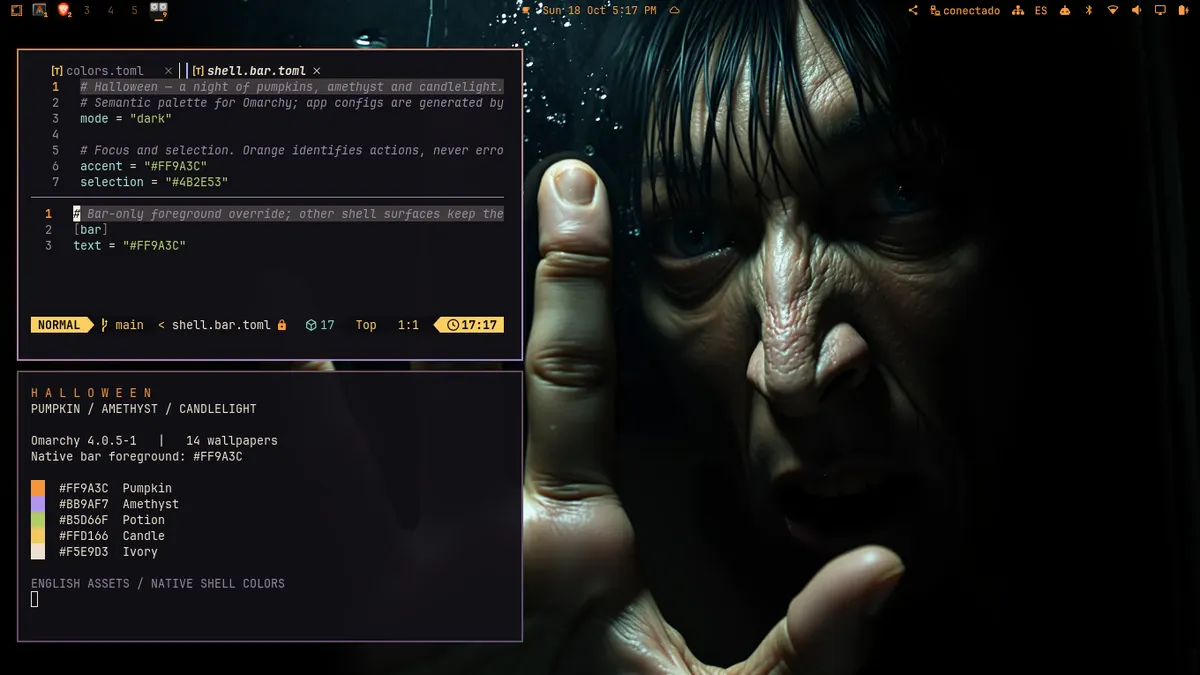
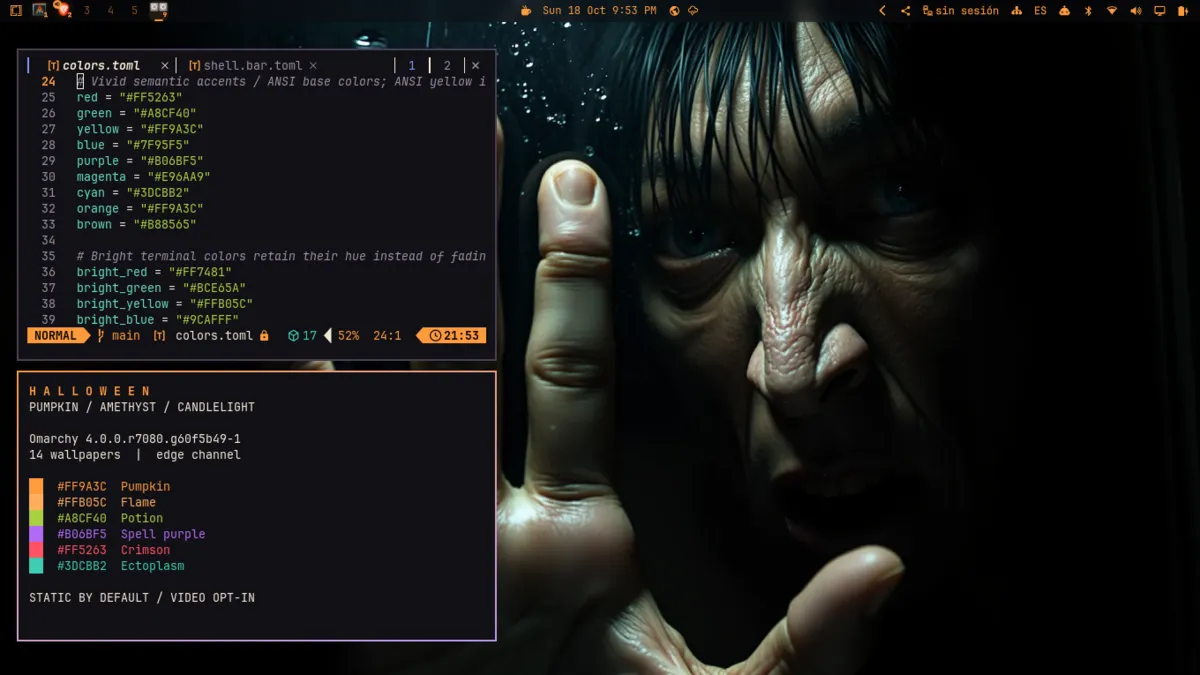
Refresh desktop previews for the vivid Halloween palette

diff --git a/README.md b/README.md
@@ -2,9 +2,9 @@
 
 A dark Halloween theme: pumpkin orange, amethyst, ivory and potion green on near-black surfaces. **14 still wallpapers: 10 licensed third-party downloads + 4 wallpapers created for this project**. The four project-created wallpapers are **2 procedural vector illustrations at 4K (11–12)** and **2 FLUX-generated photographic-style horror scenes at native 2048 × 1152 (13–14)**.
 
-![Updated Halloween desktop: orange bar, Foot, Neovim and Don't Look at the Glass wallpaper](preview.png)
+![Updated Halloween desktop: vivid pumpkin-orange terminal colors, orange bar, Foot, Neovim and Don't Look at the Glass wallpaper](preview.png)
 
-Updated real desktop capture with the **pumpkin-orange transparent bar**, **14-wallpaper collection** and **Don't Look at the Glass** background. The terminal and Neovim are real application windows, not a montage. The wallpaper is fictional AI-generated artwork, not a photograph of a real person. [Earlier screenshot with Raven Manor](previews/desktop-mansion.png) · [Matching catalog WebP, 1200 × 675](previews/halloween.webp).
+Updated real desktop capture on **edge** with the **vivid ANSI palette**, unchanged **pumpkin-orange transparent bar**, **14-wallpaper collection** and **Don't Look at the Glass** background. Foot displays the actual generated orange, green, purple, red and cyan values; Neovim shows the real updated `colors.toml`. These are real application windows, not a montage. The wallpaper is fictional AI-generated artwork, not a photograph of a real person. [Earlier screenshot with Raven Manor](previews/desktop-mansion.png) · [Matching catalog WebP, 1200 × 675](previews/halloween.webp).
 
 ## Design and colors
 
@@ -31,7 +31,7 @@ Updated real desktop capture with the **pumpkin-orange transparent bar**, **14-w
 
 Active border: pumpkin → amethyst gradient at 45°. Inactive border: `#4B3A55`. The gradient is a color declaration, not an animation. Bright ANSI colors are defined separately. `icons.theme` selects **Yaru**, the orange variant available by default according to the manual.
 
-The application palette now uses stronger, less pastel colored accents. Both normal and bright ANSI yellow stay pumpkin-orange; the top bar's **base setting** remains exactly `#FF9A3C`, with its native transparency and automatic contrast behavior preserved. Main ivory text, dark surfaces, selection and border colors are unchanged. Terminals receive these colors through Omarchy's normal generated templates, without global template overrides. Alacritty can reload the generated palette; open a new Foot window to use it. Wallpaper artwork and existing screenshot/art previews retain the colors captured or drawn originally; no wallpaper was recolored.
+The application palette now uses stronger, less pastel colored accents. Both normal and bright ANSI yellow stay pumpkin-orange; the top bar's **base setting** remains exactly `#FF9A3C`, with its native transparency and automatic contrast behavior preserved. Main ivory text, dark surfaces, selection and border colors are unchanged. Terminals receive these colors through Omarchy's normal generated templates, without global template overrides. Alacritty can reload the generated palette; open a new Foot window to use it. Wallpaper artwork, vector-art previews and the earlier Raven Manor screenshot retain their original artistic colors; no wallpaper was recolored. The main desktop preview now shows the revised application palette.
 
 The clock and theme-aware monochrome bar icons use **pumpkin orange `#FF9A3C`** through the native `shell.bar.toml` section override. Application and popup text remains ivory; full-color application/tray icons retain their own artwork.
 
@@ -249,7 +249,7 @@ In the version consulted, a theme cloned with `omarchy theme install` cannot sup
 
 ## Verification performed
 
-Reference environment: **Omarchy 4.0.5-1**, as reported by the installed package. The initial collection was tested in a real graphical session; the expansion to 14 wallpapers was additionally checked with an isolated installation.
+Initial validation environment: **stable Omarchy 4.0.5-1**, as reported by the installed package. The initial collection was tested in a real graphical session; the expansion to 14 wallpapers was additionally checked with an isolated installation. The current primary preview and vivid ANSI revision were captured and checked on **edge, Omarchy 4.0.0.r7080.g60f5b49-1**.
 
 - Full decoding of all **14 wallpapers**, dimension checks and absence of binary duplicates: passed.
 - **10 downloads** at their source resolution, between 3264 and 6000 pixels wide; **2 vector illustrations** at 3840 × 2160 and **2 AI-generated horror images** at native 2048 × 1152, without upscaling. The last two images' hashes match the generation record.
@@ -258,14 +258,15 @@ Reference environment: **Omarchy 4.0.5-1**, as reported by the installed package
 - During the initial installation: **19 configurations** generated by the installed templates, without unresolved variables; JSON/TOML outputs parsed successfully.
 - `foot --check-config` on its generated configuration: exit **0**.
 - Visual review of the two vector illustrations, the two AI-generated horror images and the **fourteen-wallpaper** contact sheet.
-- Installation from the public URL and actual application in Hyprland: **Theme Halloween**; `hyprctl configerrors` reported no errors. The refreshed primary screenshot shows **Don't Look at the Glass**, the orange transparent bar, Neovim editing the native bar override, and a Foot terminal displaying the installed package version, fourteen-wallpaper count and real palette values.
+- Installation from the public URL and actual application in Hyprland: **Theme Halloween**; `hyprctl configerrors` reported no errors. The refreshed primary screenshot on edge shows **Don't Look at the Glass**, the unchanged orange transparent bar, Neovim displaying the actual revised `colors.toml`, and a Foot terminal displaying the installed development version, fourteen-wallpaper count and generated vivid palette values.
 - Real visual inspection of **Foot, Neovim, borders and wallpaper**, with two desktop screenshots. Not all other applications have been visually tested.
-- Screenshots came from the native **1366 × 768** monitor, minimally cropped by 3 pixels on each side and 1/2 pixels at the top/bottom to **1360 × 765**, without upscaling or distortion. The WebP was reduced to **1200 × 675**.
+- Screenshots came from the native **1366 × 768** monitor, minimally cropped by 3 pixels on each side and 1/2 pixels at the top/bottom to **1360 × 765**, without upscaling or distortion. The current WebP was reduced to **1200 × 675**, quality **80**, stripped metadata, **51,702 bytes**.
 - English filename migration, local Markdown link targets and AI-image provenance hashes: checked. The translated renderer generated scene 11 successfully at 1920 × 1080.
 - Repeated the isolated Omarchy installation after the English cutover: **14 still wallpapers**, with no optional video in the default background cycle or selected as the active background.
 - Replacement optional WebM: all **361 frames** decoded, **736 × 400 / 24 fps / 15.042 seconds**, one VP9 video stream and **no audio**. A complete FFplay playback run with SDL's dummy output exited successfully, and sampled frames were visually reviewed. The supplied MP4 and all fourteen still wallpapers remain unchanged. Native OWE wallpaper playback was **not** tested on the installed stable build.
 - Before the corridor-video replacement, ran the official registry's `validateTheme` implementation locally: **passed, zero errors**. It reported advisories for the unconventional repository name, palette keys unknown to that registry version, the 26.31 MiB still collection, and the existing development renderer. There was **no `BACKGROUND_VIDEO` warning** because the optional clip was outside `backgrounds/`; the replacement retains that layout. The registry validator has not been rerun for this replacement. Local validation is not remote acceptance or maintainer approval.
 - Bar-only orange override: installed through the real Omarchy installer in an isolated HOME, confirming orange bar text with unchanged application, popup and control colors. Applied to the live desktop without changing the wallpaper or `shell.json`; the clock and monochrome icons were visually checked with transparency enabled. The native contrast helper kept orange for 13 of the 14 supplied wallpapers at a 1920 × 1080 top-bar sample and chose dark text for **The Last Corridor**, consistent with the retained automatic behavior.
+- Vivid ANSI revision on **edge**: ran the real Omarchy template generator in an isolated HOME and passed `foot --check-config`. Applied the palette with `omarchy theme refresh` and visually inspected native ANSI output in a real Alacritty window: normal yellow is **`#FF9A3C`**, bright yellow is **`#FFB05C`**, and the other colored accents are stronger rather than near-white pastels. The revised colored accents have at least **5.64:1** contrast against the solid `#121016` background. The bar section, global `shell.json` and selected wallpaper remained unchanged. The temporary comparison window and private captures were removed; the user's windows were preserved.
 
 The wallpapers total **26.31 MiB**. Originals are retained without additional compression: this slightly exceeds the registry's advisory 25 MiB warning threshold, but every image meets its hard limits of 50 MB and 40 megapixels. A community submission does not imply acceptance or bundling by default.
 

diff --git a/SOURCES.md b/SOURCES.md
@@ -39,9 +39,9 @@ Files **11 and 12** are generated with [`tools/render-wallpapers.py`](tools/rend
 
 ## Previews
 
-- **`previews/theme-art-preview.*` and `previews/originals-contact-sheet.*`**: only the **two vector illustrations, 11–12**, and the palette, not all four project-created wallpapers. Their labels explicitly identify this vector-only scope. CC0 as described in [`ARTWORK-LICENSE`](ARTWORK-LICENSE); these are artwork previews, not real screenshots.
+- **`previews/theme-art-preview.*` and `previews/originals-contact-sheet.*`**: only the **two vector illustrations, 11–12**, and their original vector-art palette, not all four project-created wallpapers or the later vivid application palette. Their labels explicitly identify this vector-only scope. CC0 as described in [`ARTWORK-LICENSE`](ARTWORK-LICENSE); these are artwork previews, not real screenshots.
 - **`previews/contact-sheet.png`**: a collection of all fourteen wallpapers, with reduced thumbnails and identifying labels. Each image retains **its work's license stated above**; labels and layout do not relicense the photographs. This page provides attribution, links and a statement of those presentation changes. Retain these notices when redistributing the contact sheet.
-- **`preview.png` and `previews/halloween.webp`**: a refreshed real Omarchy **4.0.5-1** desktop capture with the orange transparent bar, Foot, Neovim and wallpaper **14 — Don't Look at the Glass**. The depicted wallpaper is fictional AI-generated artwork, not a real photograph; [generation provenance](sources/13-14-generated.json) and [qualified CC0 dedication](ARTWORK-LICENSE) apply to the project's contribution to it. The screenshot contribution is MIT; depicted software retains its own rights. The capture was cropped from **1366 × 768 to 1360 × 765** without distortion or upscaling; the WebP was reduced to **1200 × 675**, quality **80**, **50,808 bytes**. No windows or effects were composited. The scene was checked for private windows, usernames, notifications and the mouse pointer before publication.
[1 lines of base64/hex data omitted]
 - **`previews/desktop-mansion.png`**: a second real screenshot with original wallpaper **12 — Raven Manor**, CC0. The same minimal 16:9 crop was applied. The screenshot contribution is distributed under MIT; depicted software and wallpapers retain their rights. See `LICENSE`.
 - **`previews/horror-contact-sheet.jpg`**: a presentation of AI-generated images 13 and 14, reduced for comparison; the project contribution has the same dedication described in `ARTWORK-LICENSE`. It is not a desktop screenshot or real photograph.
 
